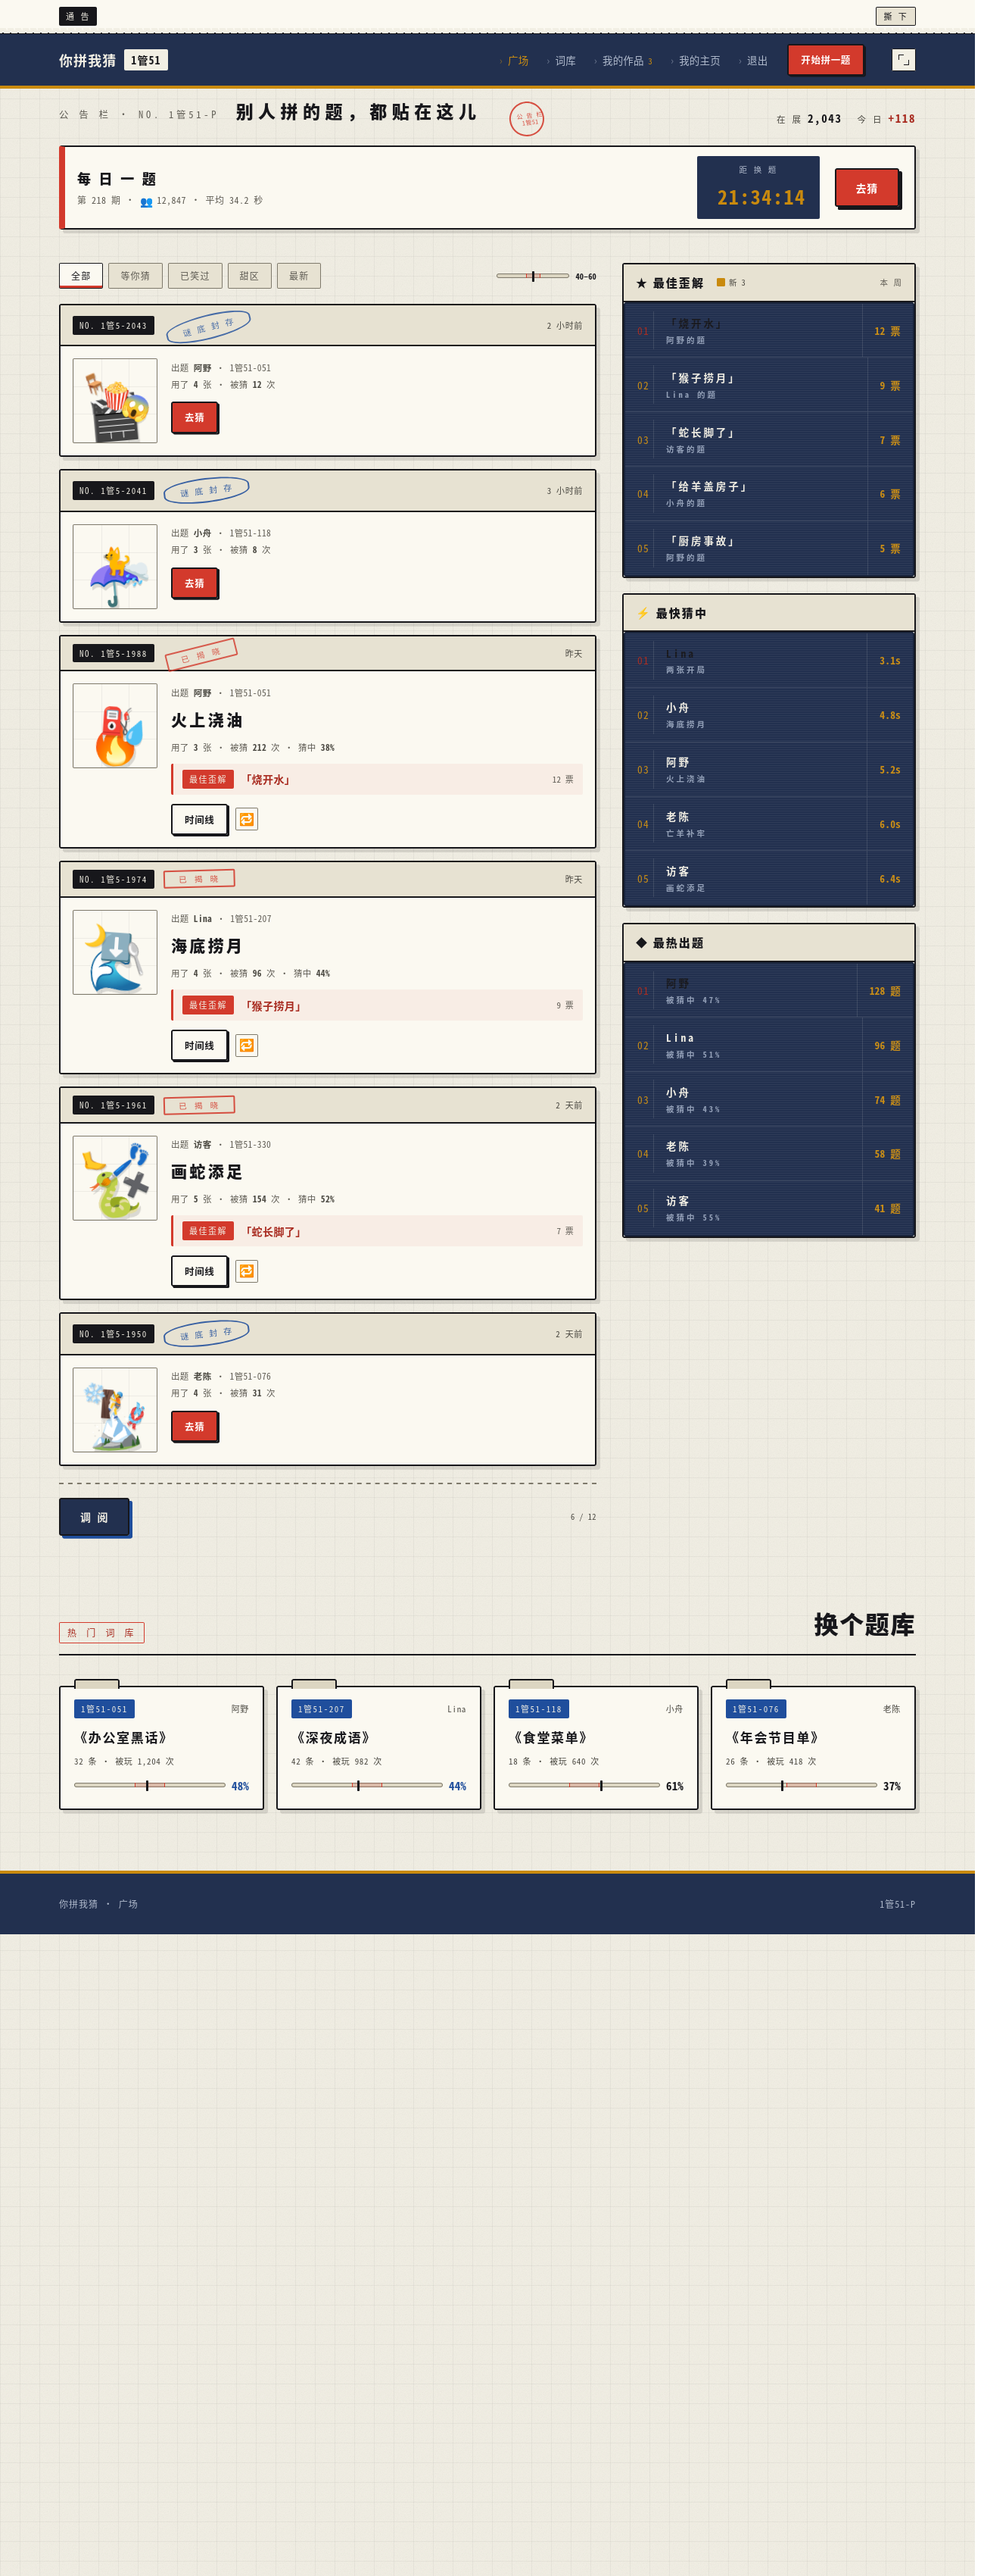
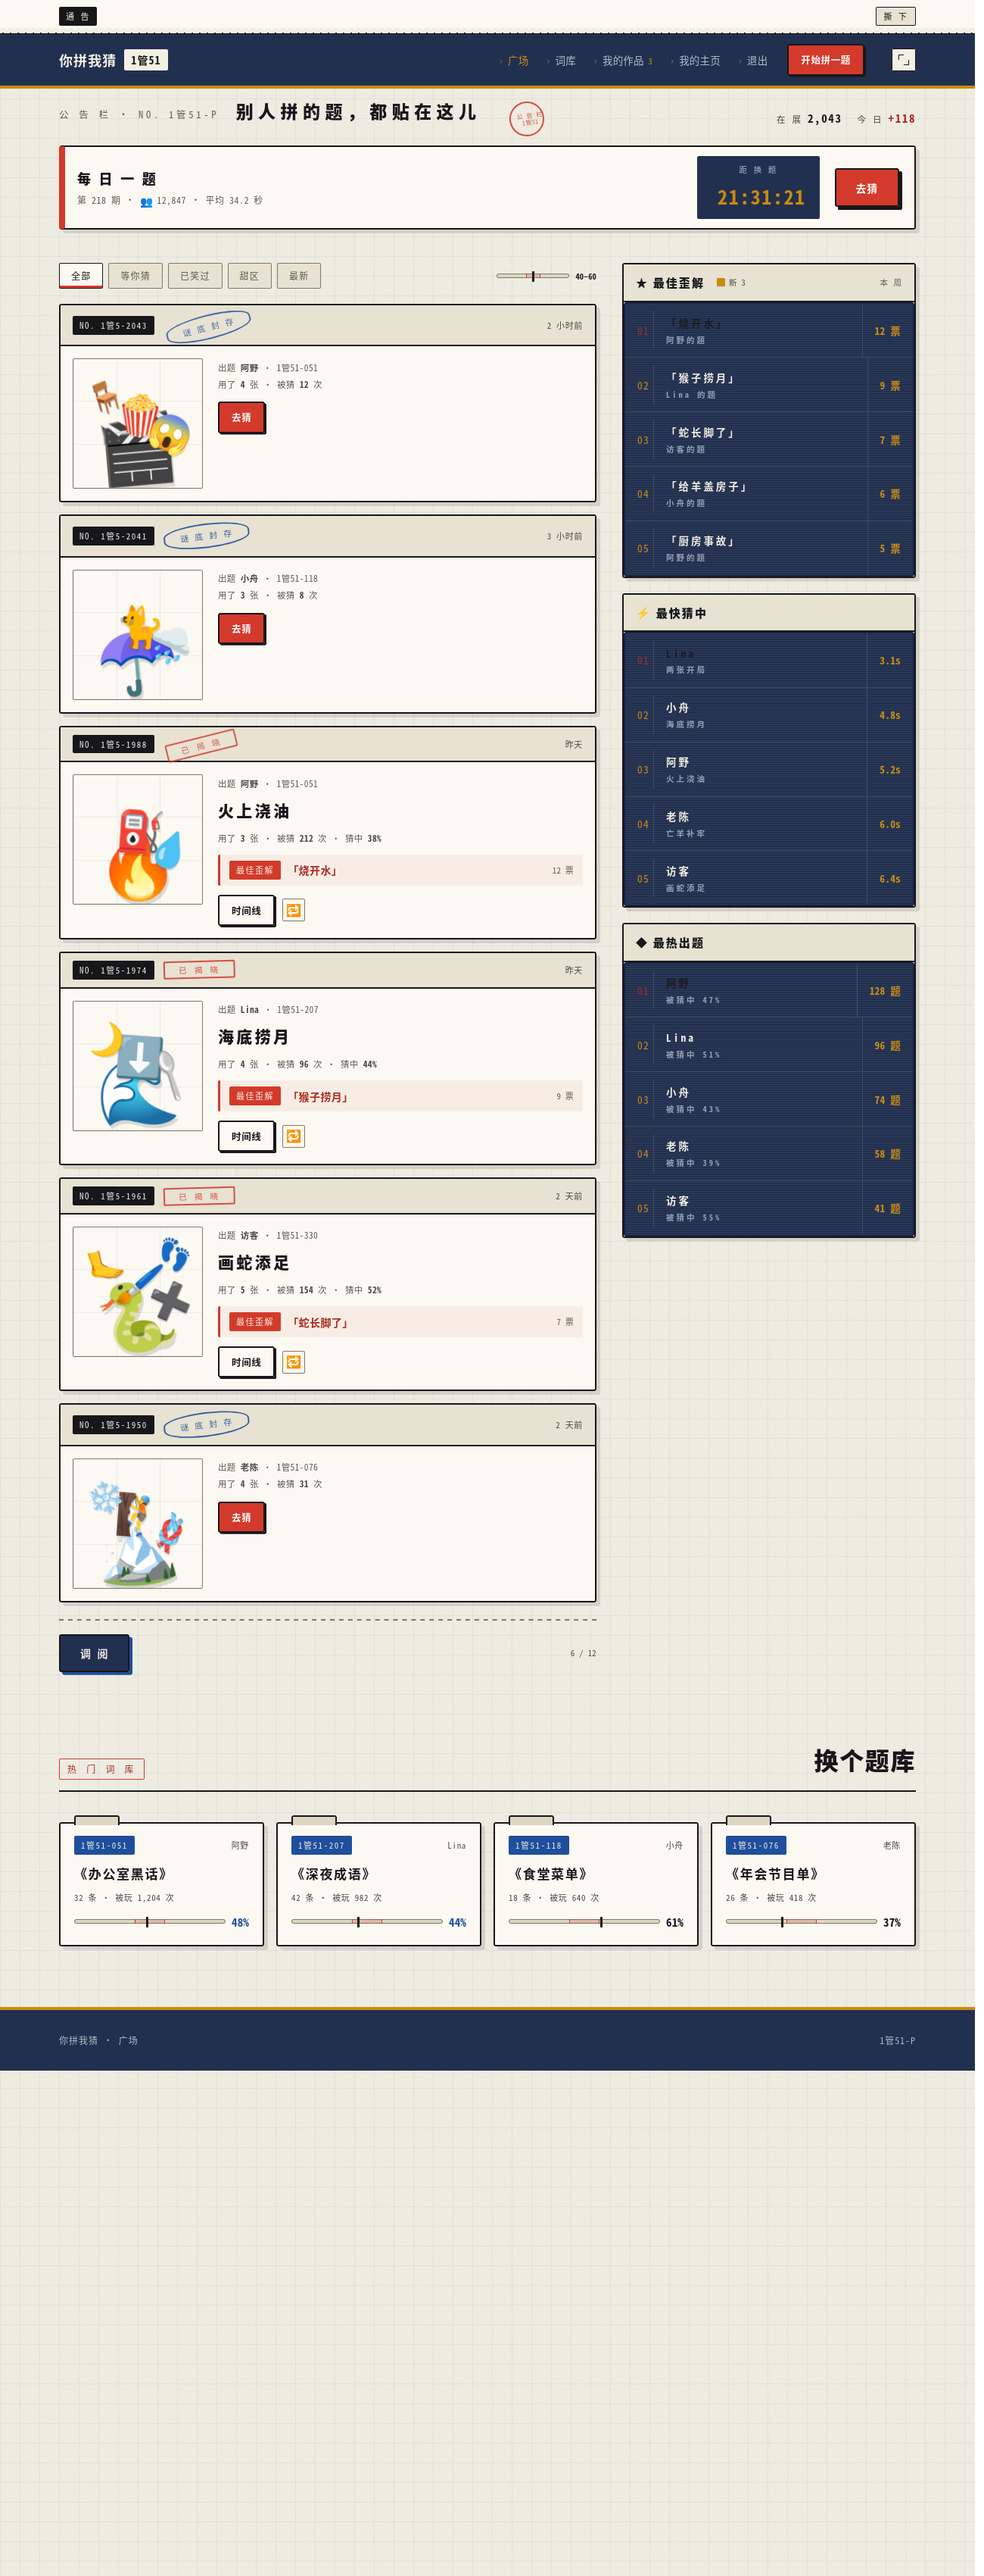
广场卡片缩略图 112 → 172px，填掉卡片右半的空地
评委：「卡片约 495px 宽，内容到 260px 就结束了，右半约 45% 仍是一片奶油色空地。」 给的两个选项里选了「缩略图放大一倍」。

理由：这块牌面本来就是卡片里最该看的东西。放大它比往右边塞别的内容更对 ——
卡片是「一张贴出来的谜面」，不是信息条目。

.n-bd{grid-template-columns:172px minmax(0,1fr)}
.n-bd .snap{width:172px;height:172px}
.n-bd .snap .pc{font-size:35px}   /* 与 172px 同比，原 23px @112px */

Changed region(s): [[0.0, 0.1247, 1.0, 0.8106]]

diff --git a/app/plaza.html b/app/plaza.html
@@ -88,9 +88,12 @@
   padding:10px 16px;background:var(--paper-2);border-bottom:2px solid var(--ink)}
 .n-hd .n-time{margin-left:auto}                  /* 时间是内容，不归 .lbl 管 */
 .n-time{font-family:var(--mono);font-size:11px;color:var(--ink-2);letter-spacing:.06em;white-space:nowrap}
-.n-bd{display:grid;grid-template-columns:112px 1fr;gap:18px;padding:16px}
-.n-bd .snap{width:112px;height:112px}
-.n-bd .snap .pc{font-size:23px}
+.n-bd{display:grid;grid-template-columns:172px minmax(0,1fr);gap:20px;padding:16px;align-items:start}
+/* 缩略图 112 → 172px。评委：「卡片约 495px 宽，内容到 260px 就结束了，
+   右半约 45% 仍是一片奶油色空地。」而这块牌面本来就是卡片里最该看的东西 ——
+   放大它比往右边塞别的内容更对：卡片是「一张贴出来的谜面」，不是信息条目。 */
+.n-bd .snap{width:172px;height:172px}
+.n-bd .snap .pc{font-size:35px}   /* 与 172px 同比（原 23px @112px） */
 .n-bd h3{font-size:21px;letter-spacing:.16em;font-weight:900;margin:6px 0 8px}
 .n-kv{font-family:var(--mono);font-size:11.5px;color:var(--ink-3);letter-spacing:.03em;line-height:1.95}
 .n-kv b{color:var(--ink-2);font-weight:700}
